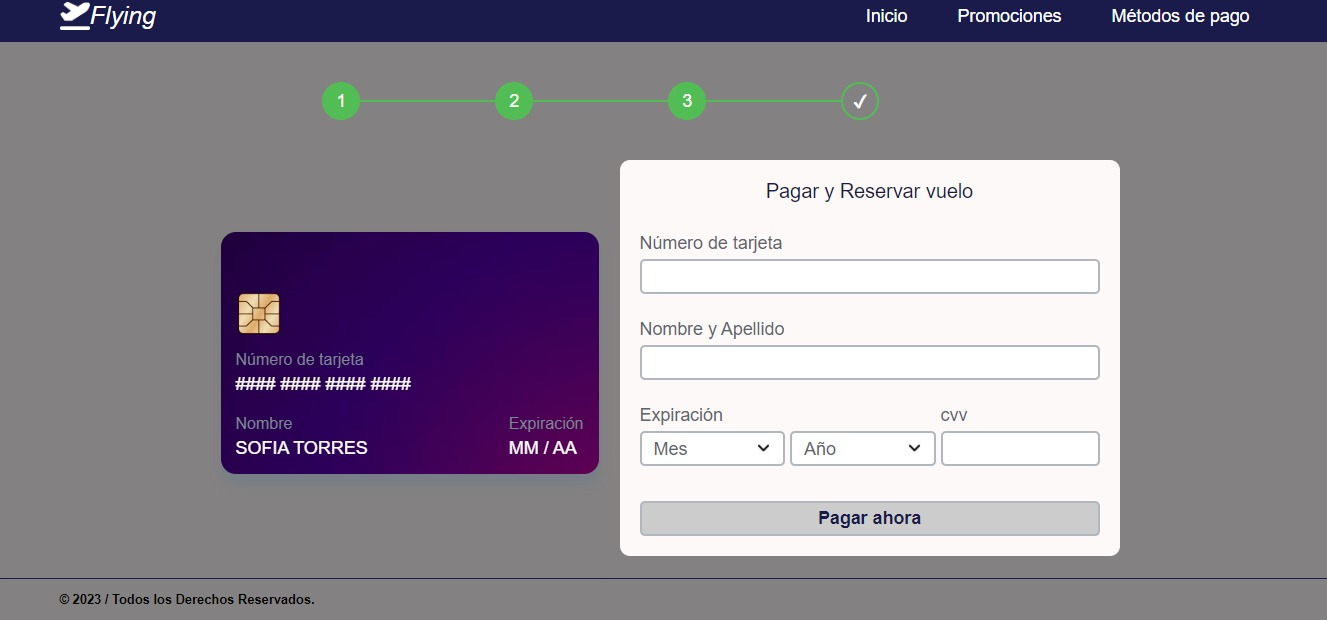
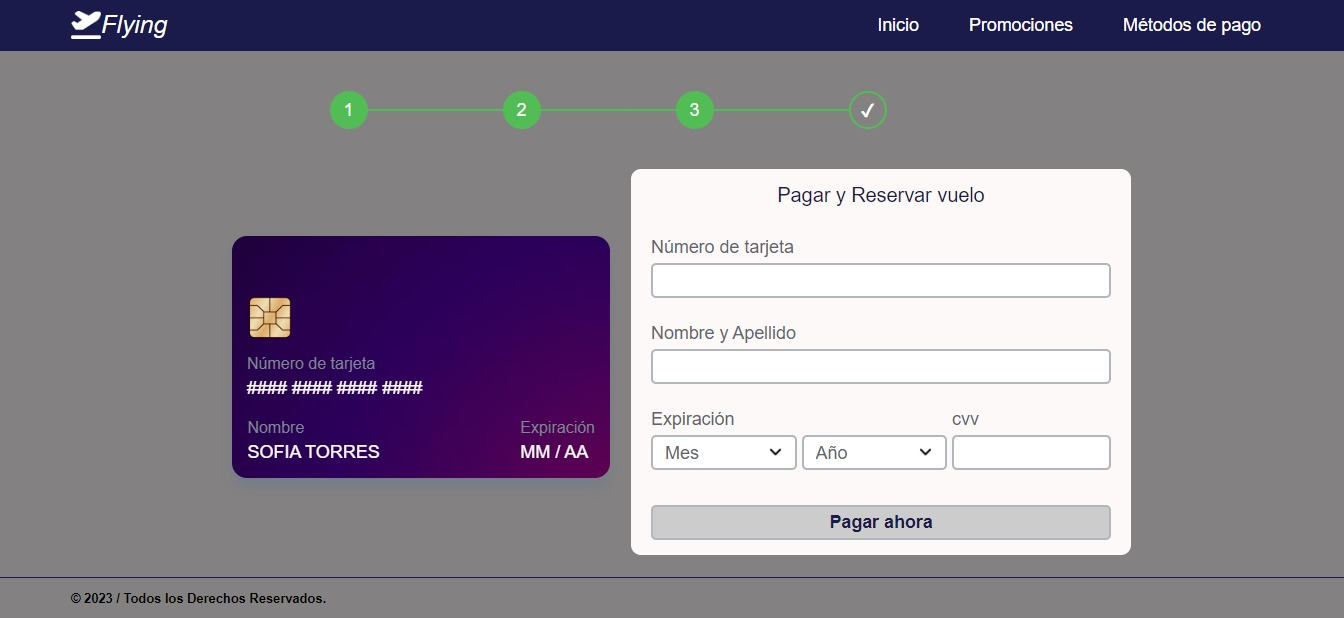
UPDATE:image for readme

diff --git a/src/css/style.css b/src/css/style.css
@@ -71,7 +71,7 @@ html {
 }
 
 .link:hover {
-  background-color: rgb(62, 10, 107);
+  background-color: rgb(67, 20, 107);
 }
 
 .box-logo {
@@ -313,7 +313,7 @@ html {
   width: 95%;
   max-width: 500px;
   border-radius: 10px;
-  padding: 20px;
+  padding: 15px 20px;
   display: grid;
   gap: 25px;
   margin-top: 10px;
